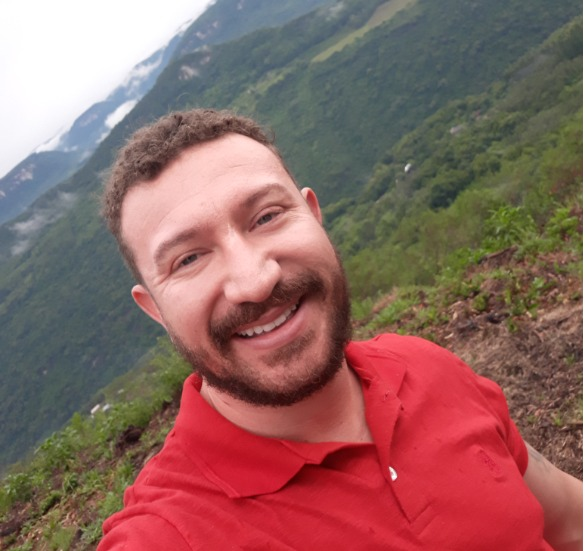
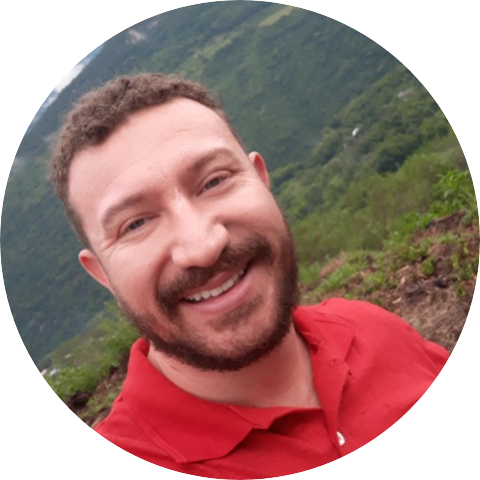
@alinenecchi @jhuan0999 Atualização de fotos

diff --git a/frontend/src/components/Depositions/index.js b/frontend/src/components/Depositions/index.js
@@ -73,10 +73,10 @@ function renderCard() {
           </Card>
 
           <Card className= "card-depositions">
-            <Card.Body>
-            <div class="imgCard">
+            <div class="img06">
               <Card.Img variant="top" src={PhotoCard6}/>
             </div>
+            <Card.Body>
               <Card.Title className='card.title'>{TextsDepositions.card6.title}</Card.Title>
               <Card.Text className='text-card'>{TextsDepositions.card6.content}</Card.Text>
             </Card.Body>
@@ -154,10 +154,10 @@ function renderCard() {
 
             <div className="col-sm-*">
               <Card className= "card-depositions">
-                <Card.Body>
-                <div class="imgCard">
+                <div class="img06">
                   <Card.Img variant="top" src={PhotoCard6}/>
                 </div>
+                <Card.Body>
                   <Card.Title className='card.title'>{TextsDepositions.card6.title}</Card.Title>
                   <Card.Text className='text-card'>{TextsDepositions.card6.content}</Card.Text>
                 </Card.Body>

diff --git a/frontend/src/components/Depositions/DepositionsStyles.css b/frontend/src/components/Depositions/DepositionsStyles.css
@@ -26,6 +26,14 @@
     height: 70px;
     width: 70px;  
 }
+.img06{
+    margin: auto;
+    padding-top: 5px;
+    border-radius: 50%;
+    overflow: hidden;
+    height: 70px;
+    width: 70px;  
+}
 .card.card-depositions{
     max-width: 350px;
     height: 540px;
